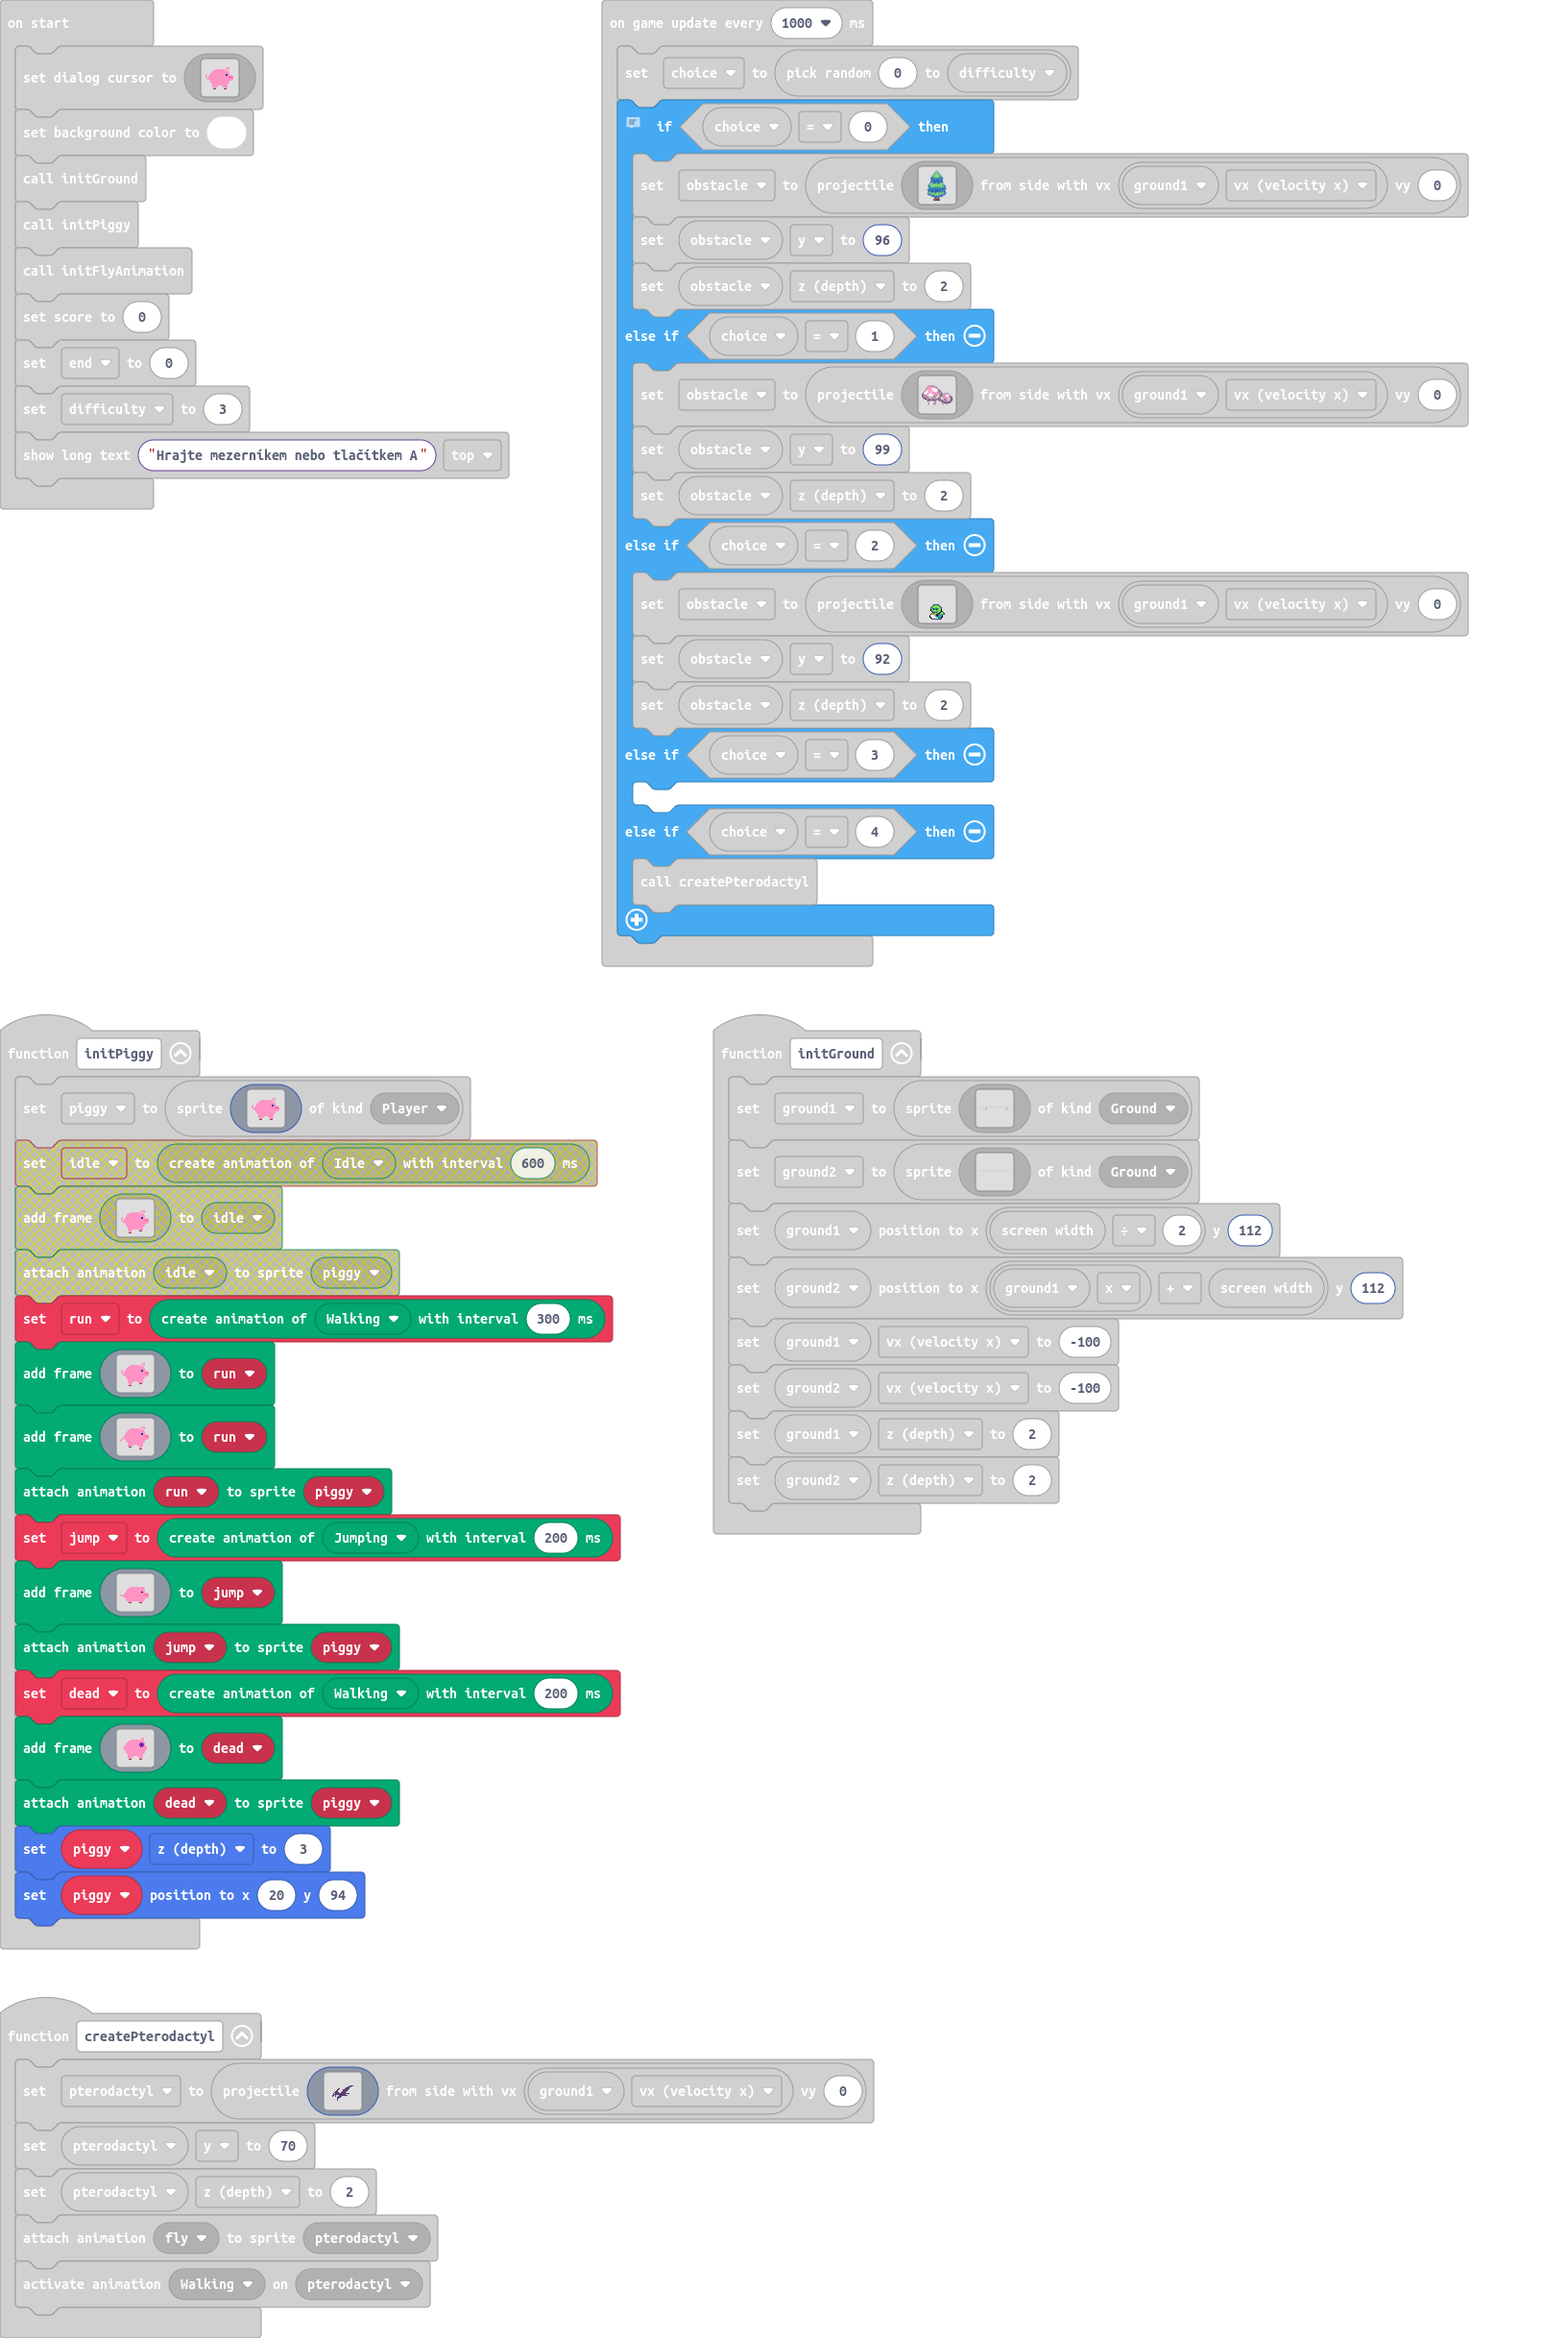
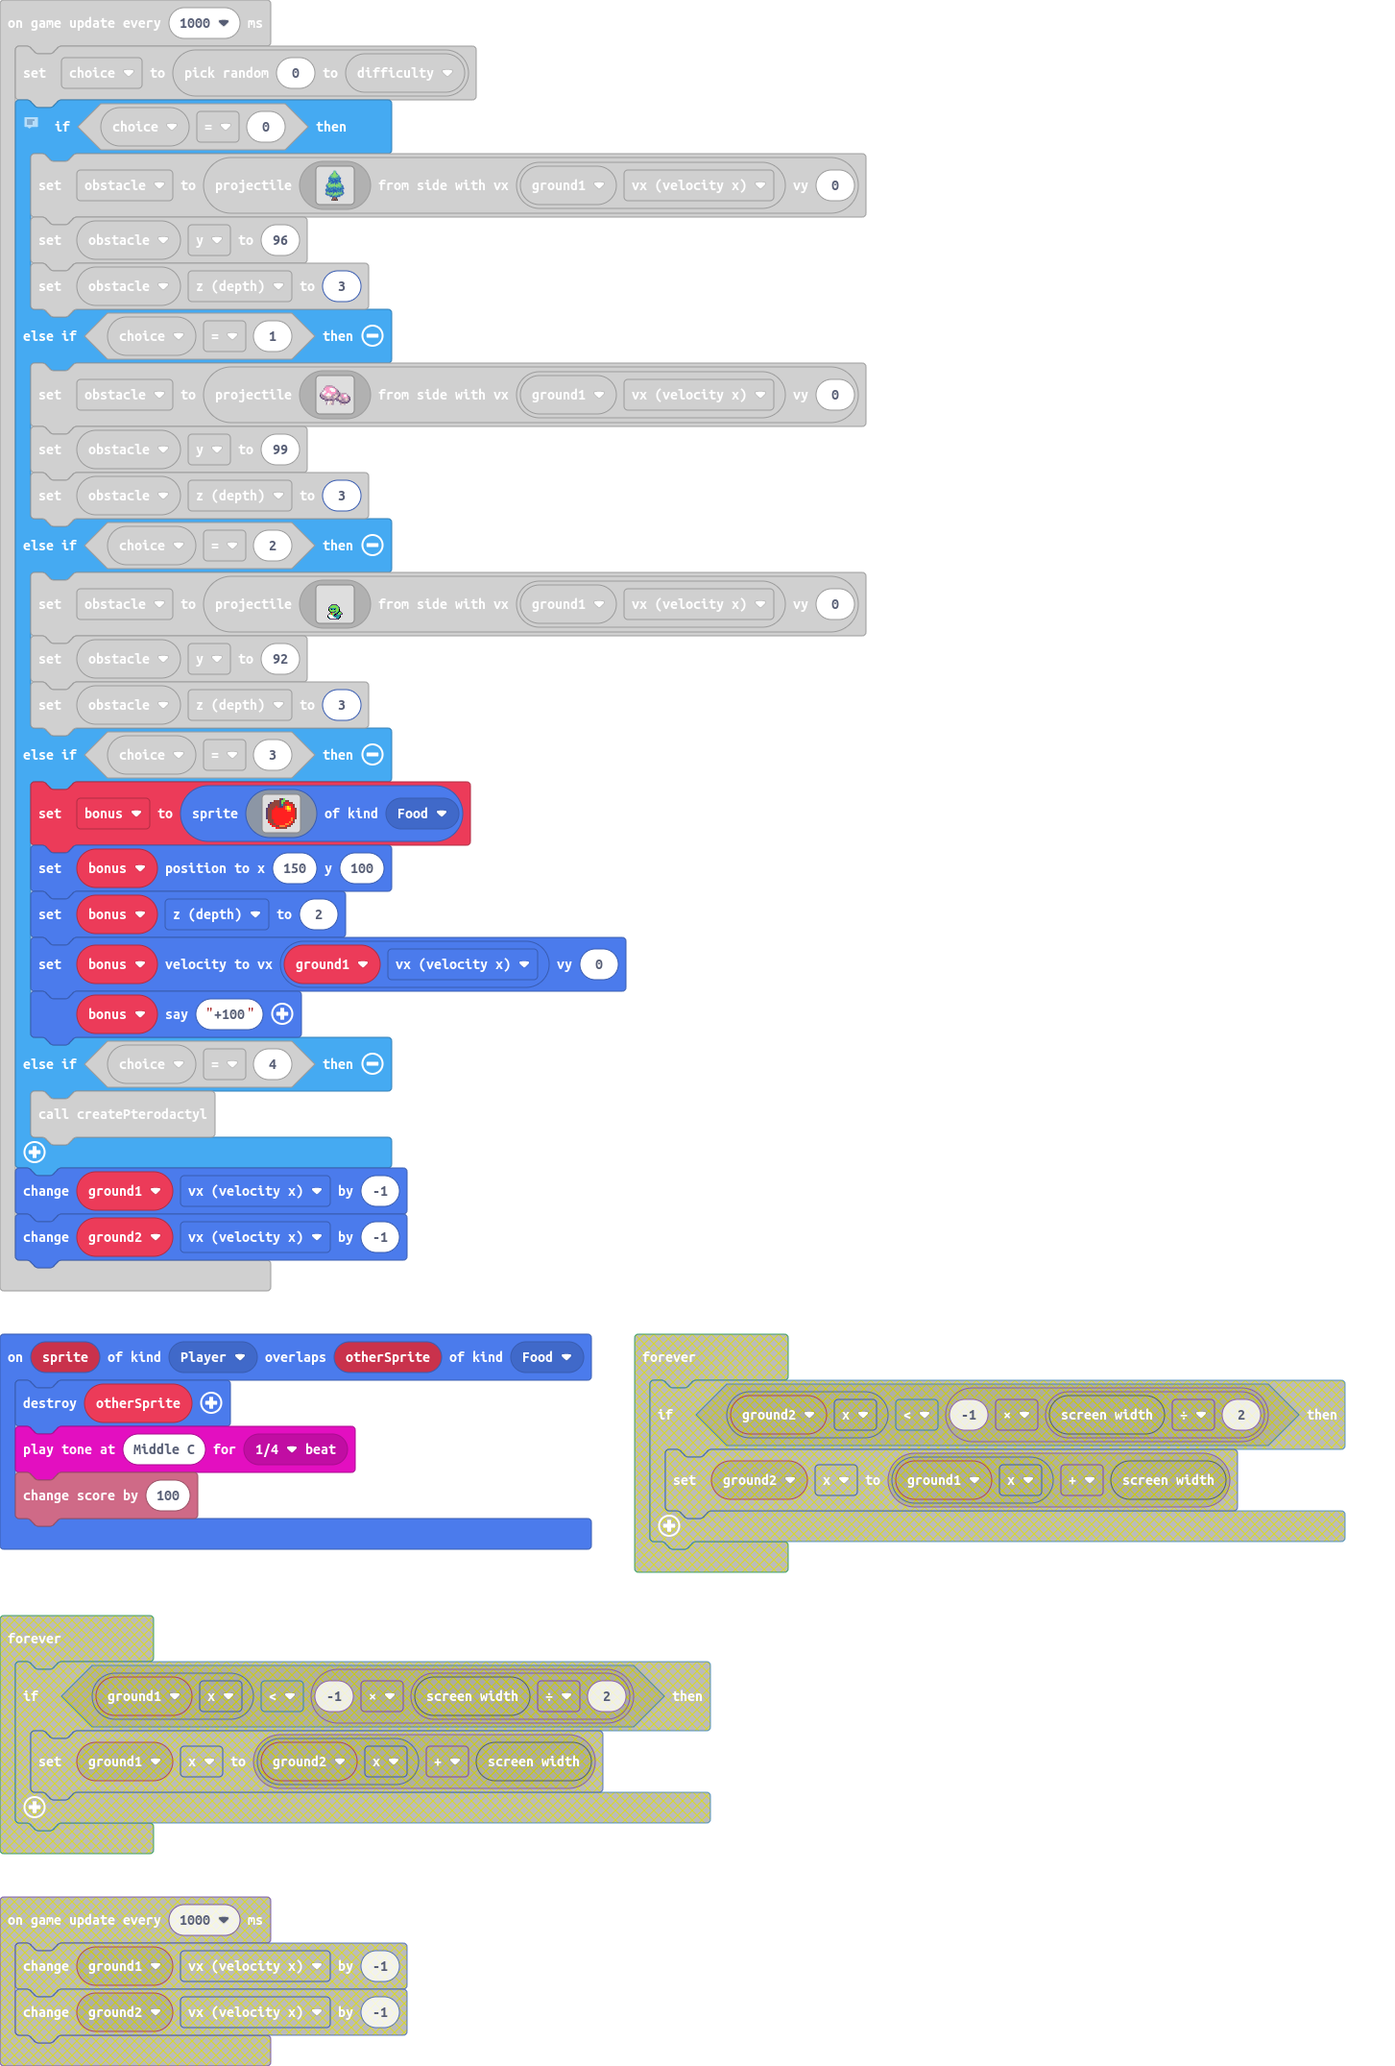
Update main.blocks, main.ts, images.g.jres, images.g.ts

diff --git a/images.g.ts b/images.g.ts
@@ -205,41 +205,6 @@ cbbbbddddbbdddcbb33113c.
 ...............................
 ...............................
 `;
-            case "image2":
-            case "piggy 3":return img`
-...............................
-...............................
-...............................
-...............................
-...............................
-......................3333.....
-......................3dd3.....
-...........333333333.33dd3.....
-.........3333333333333dd3......
-........33333333333333333......
-.......3333333333333333333.....
-......33333333333333333333.....
-......33333333333333338833.....
-.....333333333333333338c33333..
-....33333333333333333333333333.
-....33333333333333333333332323.
-...333333333333333333333333333.
-..3333333333333333333333333333.
-.33..333333333333333333333333..
-33....33333333333333333333.....
-3.....33333333333333333333.....
-.......333333333333333333......
-........3333333333333333.......
-........3333333333333333.......
-........333333....333333.......
-........33333......33333.......
-.........eee........333........
-....................333........
-....................eee........
-...............................
-...............................
-...............................
-`;
             case "image27":
             case "snake":return img`
 ................
@@ -417,6 +382,60 @@ f61111166666cf..
 .................................687776......................................................................................................687776...............
 .................................87776.......................................................................................................87776................
 .................................8886........................................................................................................8886.................
+`;
+            case "image4":
+            case "apple":return img`
+. . . . . . . e c 7 . . . . . . 
+. . . . e e e c 7 7 e e . . . . 
+. . c e e e e c 7 e 2 2 e e . . 
+. c e e e e e c 6 e e 2 2 2 e . 
+. c e e e 2 e c c 2 4 5 4 2 e . 
+c e e e 2 2 2 2 2 2 4 5 5 2 2 e 
+c e e 2 2 2 2 2 2 2 2 4 4 2 2 e 
+c e e 2 2 2 2 2 2 2 2 2 2 2 2 e 
+c e e 2 2 2 2 2 2 2 2 2 2 2 2 e 
+c e e 2 2 2 2 2 2 2 2 2 2 2 2 e 
+c e e 2 2 2 2 2 2 2 2 2 2 4 2 e 
+. e e e 2 2 2 2 2 2 2 2 2 4 e . 
+. 2 e e 2 2 2 2 2 2 2 2 4 2 e . 
+. . 2 e e 2 2 2 2 2 4 4 2 e . . 
+. . . 2 2 e e 4 4 4 2 e e . . . 
+. . . . . 2 2 e e e e . . . . . 
+`;
+            case "image2":
+            case "piggy 3":return img`
+...............................
+...............................
+...............................
+...............................
+...............................
+......................3333.....
+......................3dd3.....
+...........333333333.33dd3.....
+.........3333333333333dd3......
+........33333333333333333......
+.......3333333333333333333.....
+......33333333333333333333.....
+......33333333333333338833.....
+.....333333333333333338c33333..
+....33333333333333333333333333.
+....33333333333333333333332323.
+...333333333333333333333333333.
+..3333333333333333333333333333.
+.33..333333333333333333333333..
+33....33333333333333333333.....
+......33333333333333333333.....
+.......333333333333333333......
+........3333333333333333.......
+........3333333333333333.......
+........333333....333333.......
+........33333......33333.......
+.........eee........333........
+....................333........
+....................eee........
+...............................
+...............................
+...............................
 `;
         }
         return null;

diff --git a/main.ts b/main.ts
@@ -59,7 +59,13 @@ function initFlyAnimation () {
     fly.addAnimationFrame(assets.image`pterodactyl 1`)
     fly.addAnimationFrame(assets.image`pterodactyl 2`)
 }
+sprites.onOverlap(SpriteKind.Player, SpriteKind.Food, function (sprite, otherSprite) {
+    otherSprite.destroy()
+    music.playTone(262, music.beat(BeatFraction.Quarter))
+    info.changeScoreBy(100)
+})
 let cloud: Sprite = null
+let bonus: Sprite = null
 let obstacle: Sprite = null
 let choice = 0
 let dead: animation.Animation = null
@@ -103,10 +109,12 @@ game.onUpdateInterval(50, function () {
             difficulty = difficulty + 1
         }
     }
-})
-game.onUpdateInterval(1000, function () {
-    ground1.vx += -1
-    ground2.vx += -1
+    if (ground1.x < -1 * (scene.screenWidth() / 2)) {
+        ground1.x = ground2.x + scene.screenWidth()
+    }
+    if (ground2.x < -1 * (scene.screenWidth() / 2)) {
+        ground2.x = ground1.x + scene.screenWidth()
+    }
 })
 game.onUpdateInterval(1000, function () {
     choice = randint(0, difficulty)
@@ -115,20 +123,26 @@ game.onUpdateInterval(1000, function () {
     if (choice == 0) {
         obstacle = sprites.createProjectileFromSide(assets.image`tree`, ground1.vx, 0)
         obstacle.y = 96
-        obstacle.z = 2
+        obstacle.z = 3
     } else if (choice == 1) {
         obstacle = sprites.createProjectileFromSide(assets.image`mushrooms`, ground1.vx, 0)
         obstacle.y = 99
-        obstacle.z = 2
+        obstacle.z = 3
     } else if (choice == 2) {
         obstacle = sprites.createProjectileFromSide(assets.image`snake`, ground1.vx, 0)
         obstacle.y = 92
-        obstacle.z = 2
+        obstacle.z = 3
     } else if (choice == 3) {
-    	
+        bonus = sprites.create(assets.image`apple`, SpriteKind.Food)
+        bonus.setPosition(150, 100)
+        bonus.z = 2
+        bonus.setVelocity(ground1.vx, 0)
+        bonus.say("+100")
     } else if (choice == 4) {
         createPterodactyl()
     }
+    ground1.vx += -1
+    ground2.vx += -1
 })
 game.onUpdateInterval(1500, function () {
     if (Math.percentChance(40)) {
@@ -136,15 +150,5 @@ game.onUpdateInterval(1500, function () {
         cloud.y = randint(20, 60)
         cloud.setKind(SpriteKind.Cloud)
         cloud.z = 1
-    }
-})
-forever(function () {
-    if (ground2.x < -1 * (scene.screenWidth() / 2)) {
-        ground2.x = ground1.x + scene.screenWidth()
-    }
-})
-forever(function () {
-    if (ground1.x < -1 * (scene.screenWidth() / 2)) {
-        ground1.x = ground2.x + scene.screenWidth()
     }
 })
